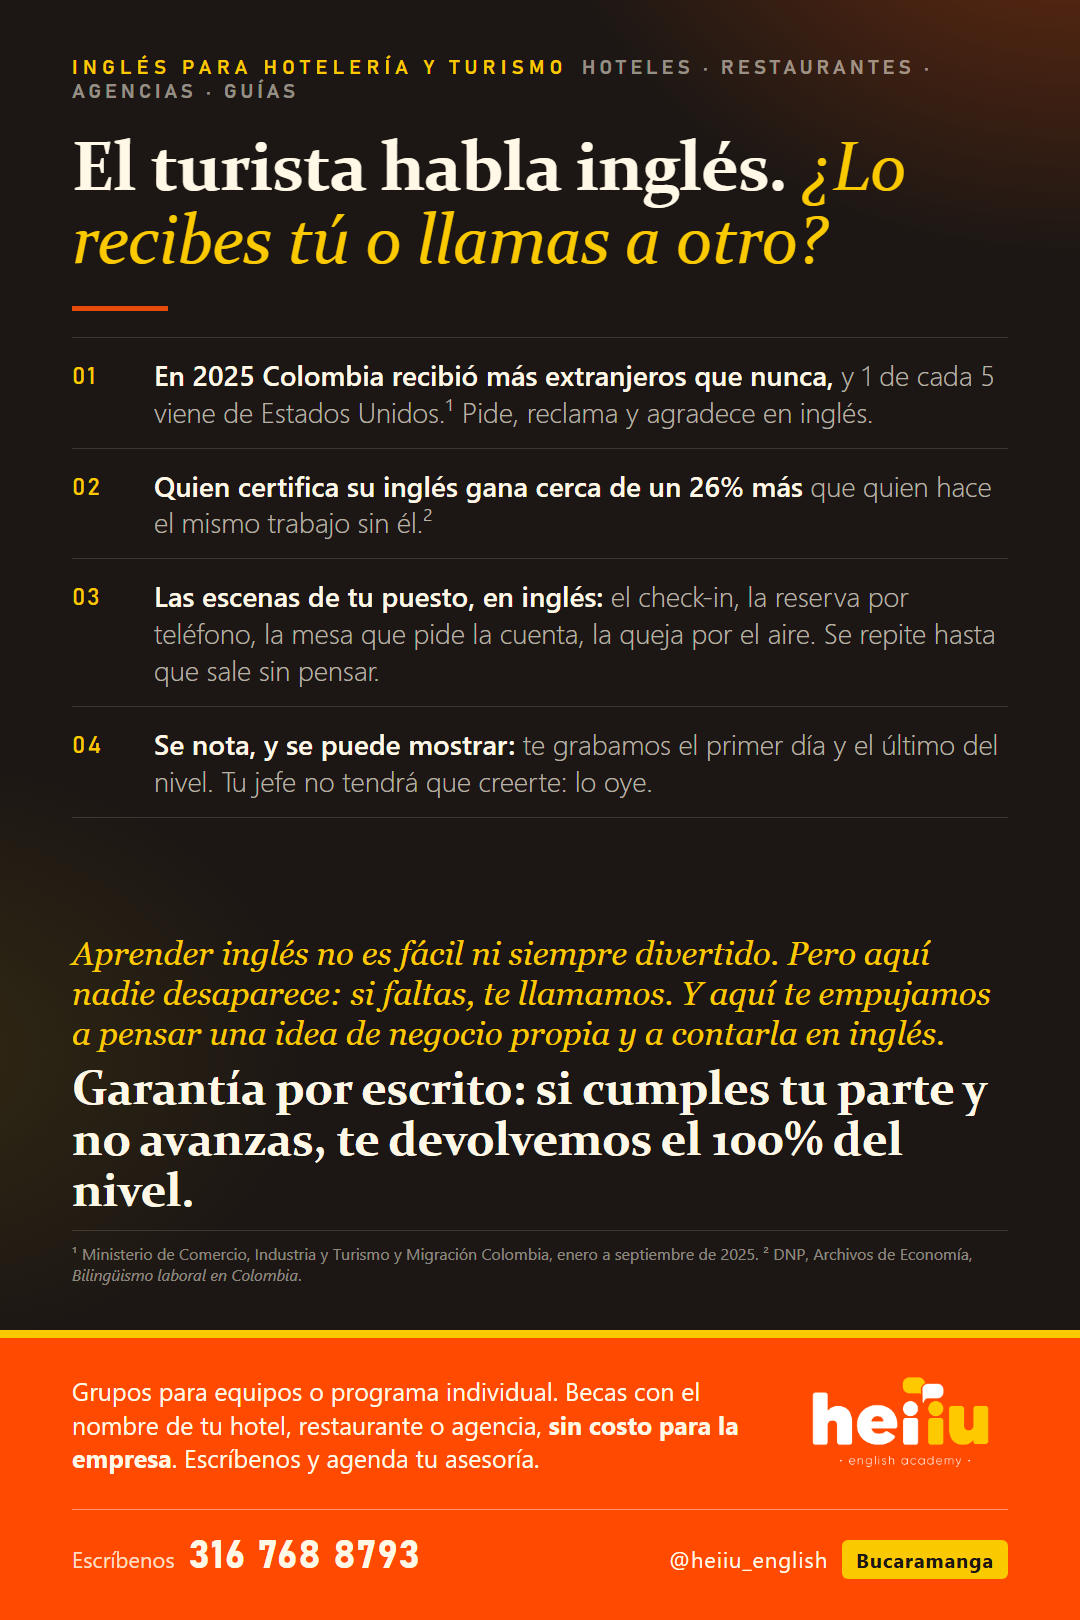
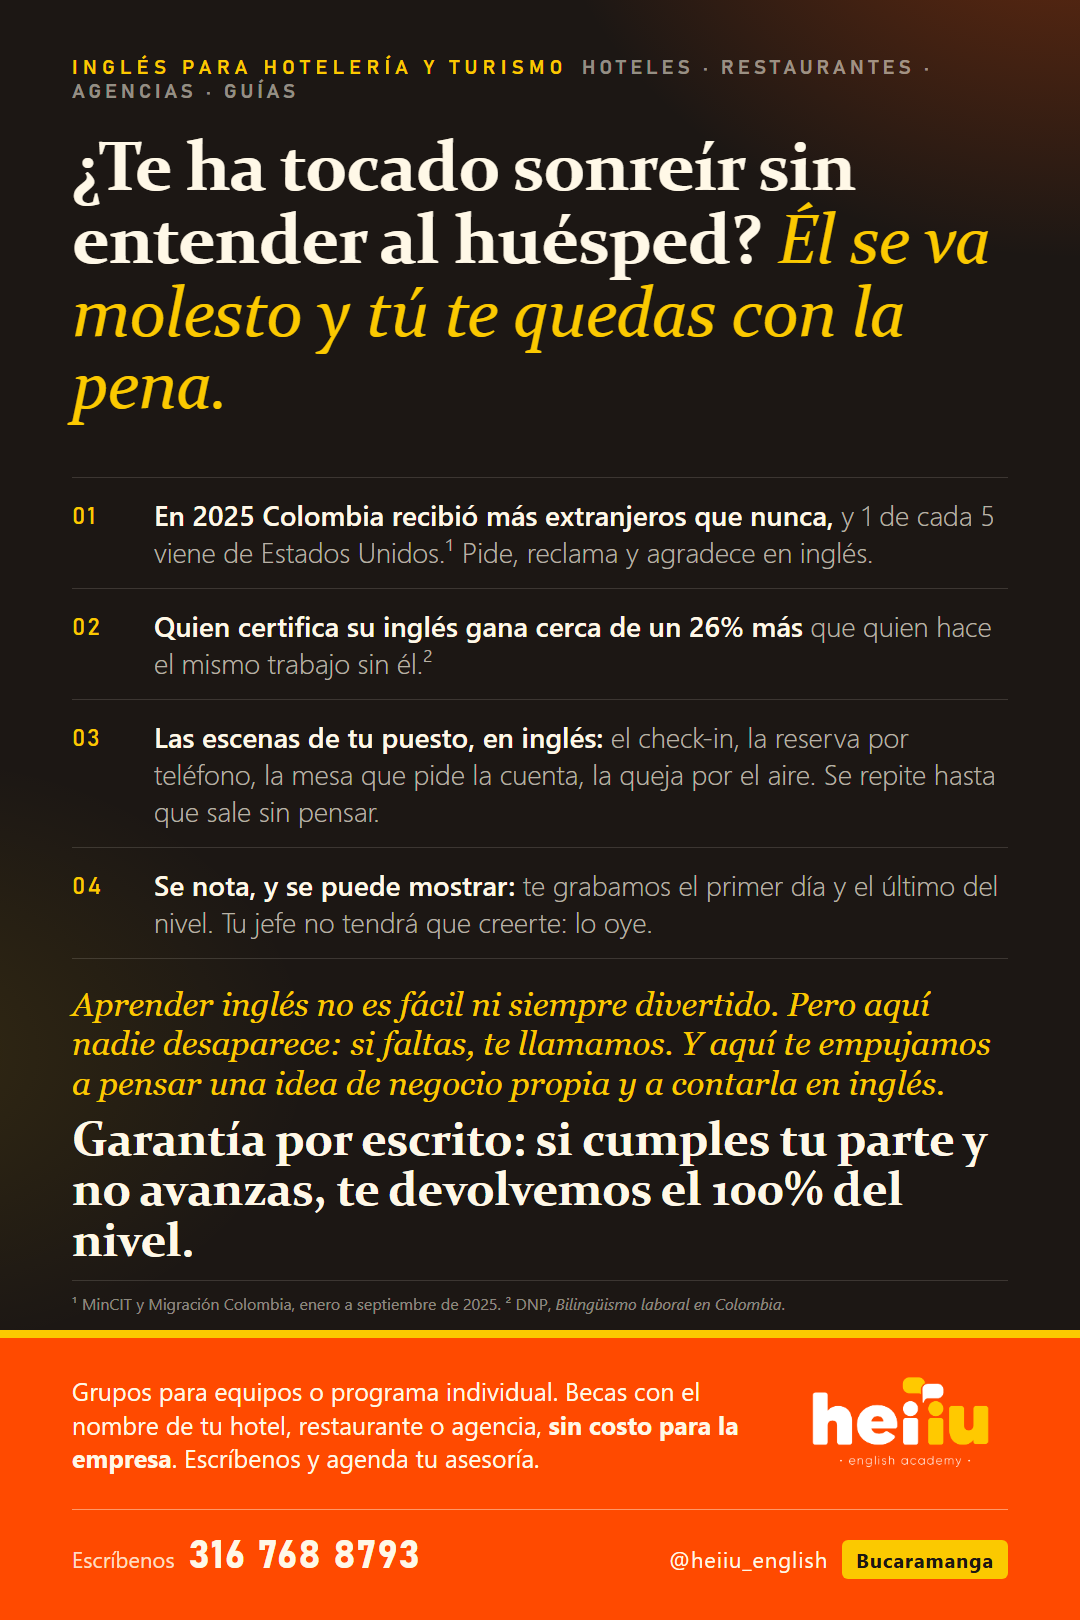
Hoteleria: titular 'Te ha tocado sonreir sin entender al huesped? El se va molesto y tu te quedas con la pena' (frustracion de los dos lados); fuente corta abreviada

diff --git a/generadores/comercial/gen_piezas_conciencia.py b/generadores/comercial/gen_piezas_conciencia.py
@@ -178,7 +178,7 @@ PIEZAS = {
     # ---------------- INDUSTRIAS (frente oscuro + respaldo claro, 10x15 a doble cara; las reparte el gerente de alianzas) ----------------
     'HOTELERIA_FRENTE': dict(
         compact=True, label='INGLÉS PARA HOTELERÍA Y TURISMO', sub='HOTELES · RESTAURANTES · AGENCIAS · GUÍAS',
-        h1='El turista habla inglés. <em>¿Lo recibes tú o llamas a otro?</em>',
+        h1='¿Te ha tocado sonreír sin entender al huésped? <em>Él se va molesto y tú te quedas con la pena.</em>',
         st=[('<b>En 2025 Colombia recibió más extranjeros que nunca:</b> 3,5 millones entre enero y septiembre, 4,5% más que el año anterior.¹'),
             ('<b>El visitante número uno viene de Estados Unidos:</b> 1 de cada 5 extranjeros.¹ Pide, reclama y agradece en inglés.'),
             ('<b>Quien certifica su inglés gana cerca de un 26% más</b> que quien hace el mismo trabajo sin él.²'),
@@ -358,12 +358,12 @@ PIEZAS = {
     # ---------------- VERSIONES CORTAS (una sola cara, digitales, para WhatsApp) ----------------
     'HOTELERIA_CORTA': dict(
         compact=True, label='INGLÉS PARA HOTELERÍA Y TURISMO', sub='HOTELES · RESTAURANTES · AGENCIAS · GUÍAS',
-        h1='El turista habla inglés. <em>¿Lo recibes tú o llamas a otro?</em>',
+        h1='¿Te ha tocado sonreír sin entender al huésped? <em>Él se va molesto y tú te quedas con la pena.</em>',
         st=[('<b>En 2025 Colombia recibió más extranjeros que nunca,</b> y 1 de cada 5 viene de Estados Unidos.¹ Pide, reclama y agradece en inglés.'),
             ('<b>Quien certifica su inglés gana cerca de un 26% más</b> que quien hace el mismo trabajo sin él.²'),
             ('<b>Las escenas de tu puesto, en inglés:</b> el check-in, la reserva por teléfono, la mesa que pide la cuenta, la queja por el aire. Se repite hasta que sale sin pensar.'),
             ('<b>Se nota, y se puede mostrar:</b> te grabamos el primer día y el último del nivel. Tu jefe no tendrá que creerte: lo oye.')],
-        lead='Aprender inglés no es fácil ni siempre divertido. Pero aquí nadie desaparece: si faltas, te llamamos. Y aquí te empujamos a pensar una idea de negocio propia y a contarla en inglés.', big='Garantía por escrito: si cumples tu parte y no avanzas, te devolvemos el 100% del nivel.', big2='', fn='¹ Ministerio de Comercio, Industria y Turismo y Migración Colombia, enero a septiembre de 2025. ² DNP, Archivos de Economía, <i>Bilingüismo laboral en Colombia</i>.',
+        lead='Aprender inglés no es fácil ni siempre divertido. Pero aquí nadie desaparece: si faltas, te llamamos. Y aquí te empujamos a pensar una idea de negocio propia y a contarla en inglés.', big='Garantía por escrito: si cumples tu parte y no avanzas, te devolvemos el 100% del nivel.', big2='', fn='¹ MinCIT y Migración Colombia, enero a septiembre de 2025. ² DNP, <i>Bilingüismo laboral en Colombia</i>.',
         band='Grupos para equipos o programa individual. Becas con el nombre de tu hotel, restaurante o agencia, <b>sin costo para la empresa</b>. Escríbenos y agenda tu asesoría.',
         band_px=290),
     'MEDICOS_DIRECTIVOS_CORTA': dict(
